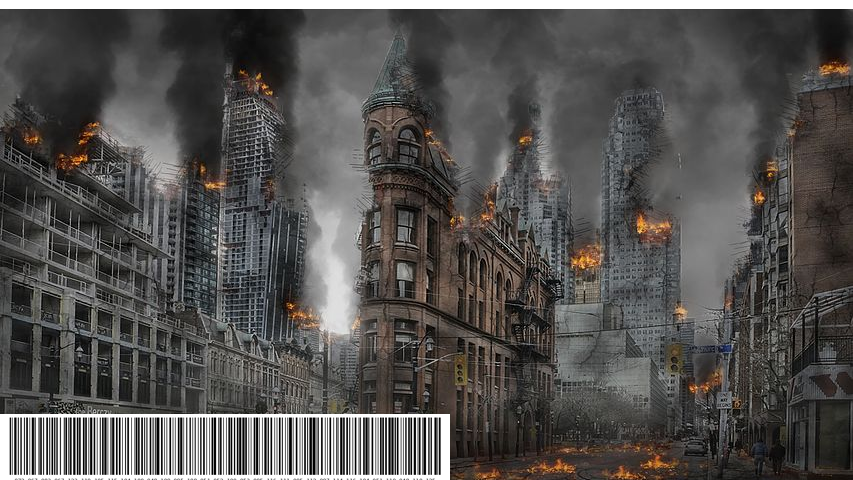
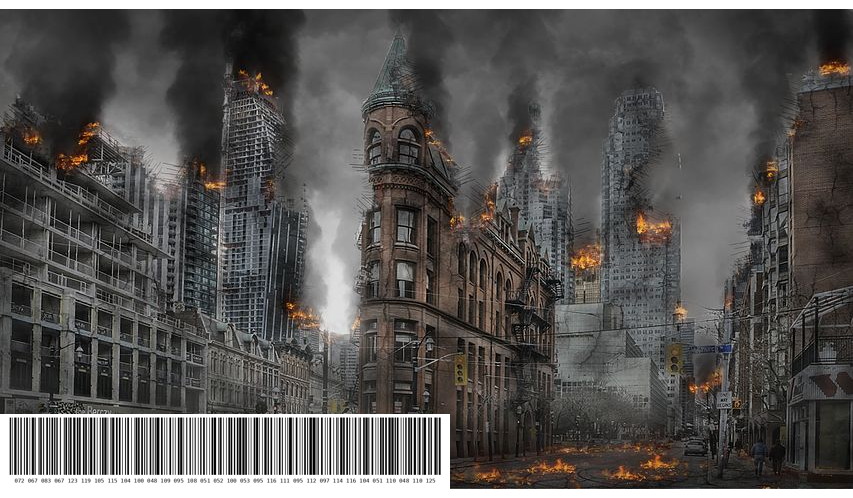
fixing png

diff --git a/hcsc23/Forensics_EOFWorld1/WRITEUP.md b/hcsc23/Forensics_EOFWorld1/WRITEUP.md
@@ -32,6 +32,10 @@ There is a better variant, with an in depth explanation of the problem.
 
 Using this, the result is quite good. At 853x498 resolution there is no extra magenta bar at the top.
 
+```bash
+python acropalypse_matching_sha256.py 853 498 picture.png acropalypse_py.png
+```
+
 ![](workdir/acropalypse_py.png)
 
 There is a "barcode" at the bottom. The numbers under it are barely readable, but they give out the flag.
